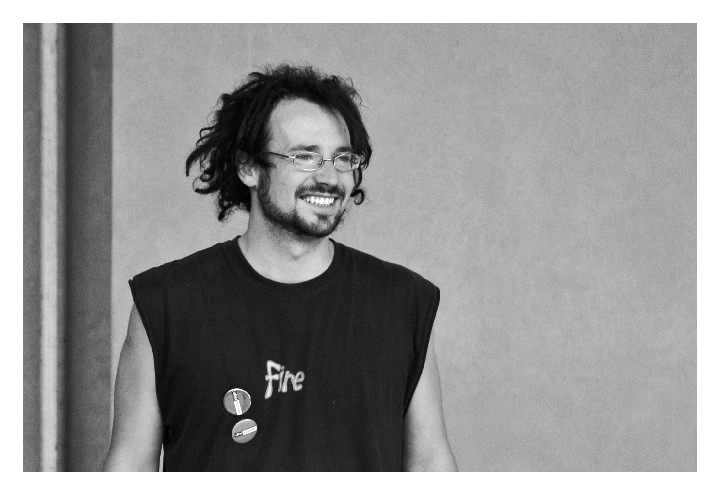
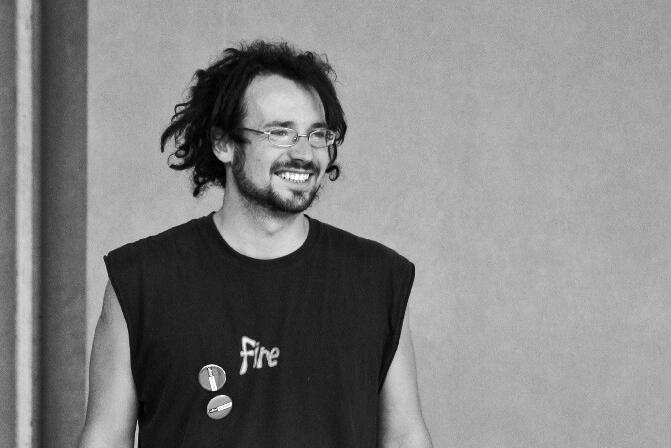
frontend: image layout tune

diff --git a/_layouts/artist.html b/_layouts/artist.html
@@ -56,7 +56,9 @@
 
 <div class="col text-light" style="background-color: black;">
 	{%- if page.picture -%}
-	<img height="400" src="{{ '/PoiTimeLine/assets/picture/' | append: page.picture }}" alt="{{ page.picture }}">
+	<div style="height: 350px;">
+		<img class="img-fluid mh-100 d-flex flex-grow-1" src="{{ '/PoiTimeLine/assets/picture/' | append: page.picture }}" alt="{{ page.picture }}">
+	</div>
 	{%- endif -%}
 	<h4 class="my-4"><u>{{ page.nickname }}</u></h4>
 